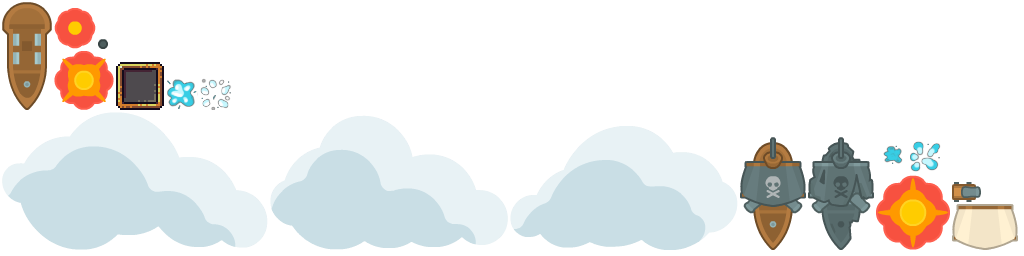
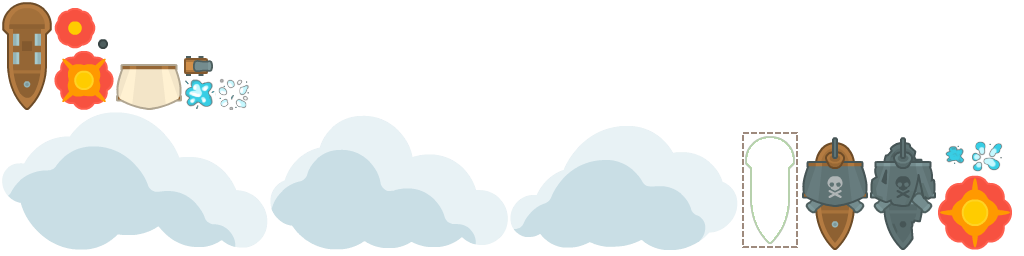
#51 Rectangle sensor and sprite for dock

Changed region(s): [[0.7188, 0.5, 1.0, 1.0], [0.0938, 0.2188, 0.25, 0.4375]]

diff --git a/core/src/com/hfentonfearn/ecs/EntityFactory.java b/core/src/com/hfentonfearn/ecs/EntityFactory.java
@@ -9,6 +9,7 @@ import com.badlogic.gdx.graphics.g2d.Sprite;
 import com.badlogic.gdx.graphics.g2d.TextureRegion;
 import com.badlogic.gdx.math.MathUtils;
 import com.badlogic.gdx.math.Polygon;
+import com.badlogic.gdx.math.Rectangle;
 import com.badlogic.gdx.math.Vector2;
 import com.badlogic.gdx.physics.box2d.*;
 import com.badlogic.gdx.physics.box2d.BodyDef.BodyType;
@@ -93,9 +94,17 @@ public class EntityFactory {
     public static void createDock(Polygon poly) {
         poly.setPosition(poly.getX()*MPP,poly.getY()*MPP);
         poly.setScale(MPP,MPP);
-        Entity entity = builder.createEntity(EntityCategory.DOCKS,new Vector2(0,0))
+        builder.createEntity(EntityCategory.DOCKS,new Vector2(0,0))
                 .buildPhysics(StaticBody).addFixture(MATERIAL_WOOD).polyChain(poly.getTransformedVertices()).create().getBody()
                 .addToEngine();
+    }
+
+    public static void createDockZone(Rectangle rect, float angle) {
+        Entity entity = builder.createEntity(EntityCategory.DOCKS, new Vector2(rect.x, rect.y))
+                .sprite(AssetLoader.effects.dockZone)
+                .buildPhysics(StaticBody).addFixture().isSensor().rectangle(rect, angle).create().getBody()
+                .addToEngine();
+        //Components.PHYSICS.get(entity).getBody().setTransform(rect.x,rect.y, (float) Math.toRadians(angle));
     }
 
     public static Entity createCannonBall(Vector2 position, Vector2 linearVel) {
@@ -133,7 +142,7 @@ public class EntityFactory {
 
     public static Entity createDyingShip(Vector2 position, int currency) {
         Entity entity = builder.createEntity(EntityCategory.DYINGSHIP,position)
-                .buildPhysics(DynamicBody).addFixture(-1).circle(0.5f).isSensor().create().getBody()
+                .buildPhysics(DynamicBody).addFixture().circle(0.5f).isSensor().create().getBody()
                 .sprite(AssetLoader.enemyShip.deadShip)
                 .killable().killAfterDuration(10).explode(20).fade().create()
                 .currency(currency)
@@ -272,6 +281,10 @@ public class EntityFactory {
             return fixtureBuilder.reset(body, material);
         }
 
+        public FixtureBuilder addFixture () {
+            return fixtureBuilder.reset(body);
+        }
+
         public EntityBuilder getBody () {
             return builder;
         }
@@ -284,6 +297,12 @@ public class EntityFactory {
                 this.body = body;
                 def = new FixtureDef();
                 setMaterial(material);
+                return this;
+            }
+
+            public FixtureBuilder reset (Body body) {
+                this.body = body;
+                def = new FixtureDef();
                 return this;
             }
 
@@ -323,6 +342,14 @@ public class EntityFactory {
                 CircleShape circle = new CircleShape();
                 circle.setRadius(radius);
                 def.shape = circle;
+                return this;
+            }
+
+            public FixtureBuilder rectangle (Rectangle rect, float angle) {
+                PolygonShape poly = new PolygonShape();
+                Vector2 center = new Vector2(rect.x * MPP,rect.y * MPP);
+                poly.setAsBox((rect.width/2) * MPP,(rect.height/2) * MPP, center, angle);
+                def.shape = poly;
                 return this;
             }
 

diff --git a/core/src/com/hfentonfearn/utils/AssetLoader.java b/core/src/com/hfentonfearn/utils/AssetLoader.java
@@ -25,8 +25,7 @@ public class AssetLoader implements Disposable {
 
     public static final String TEXTURE_ATLAS_OBJECTS = "atlas/cannon-shot.atlas";
     public static final String TEXTURE_ATLAS_PARTICLES = "atlas/particles.atlas";
-    public static final String SKIN = "skin/skin.json";
-    public static final String SKIN2 = "skin/skin2.json";
+    public static final String SKIN = "skin/skin2.json";
     public static final String MAP = "tiledMap/world1.tmx";
 
     public static AssetHotkey hotkey;
@@ -47,13 +46,13 @@ public class AssetLoader implements Disposable {
         getManager(); // Insure the manager exists
         manager.load(TEXTURE_ATLAS_OBJECTS, TextureAtlas.class);
         manager.load(TEXTURE_ATLAS_PARTICLES, TextureAtlas.class);
-        manager.load(SKIN2, Skin.class);
+        manager.load(SKIN, Skin.class);
     }
 
     public static void create () {
         TextureAtlas atlas = manager.get(TEXTURE_ATLAS_OBJECTS);
 
-        skin = manager.get(SKIN2);
+        skin = manager.get(SKIN);
         hotkey = new AssetHotkey(atlas);
         fonts = new AssetFonts(skin);
         map = new AssetMap();
@@ -191,10 +190,12 @@ public class AssetLoader implements Disposable {
     public static class AssetEffects {
         public final Animation<TextureRegion> cannonSplash;
         public final Animation<TextureRegion> cannonExplosion;
+        public final AtlasRegion dockZone;
 
         public AssetEffects(TextureAtlas atlas) {
             cannonSplash = new Animation<TextureRegion>(0.06f, atlas.findRegions("waterSplash"));
             cannonExplosion = new Animation<TextureRegion>(0.08f, atlas.findRegions("explosion"));
+            dockZone = atlas.findRegion("dockZone");
         }
     }
 

diff --git a/core/src/com/hfentonfearn/utils/WorldBuilder.java b/core/src/com/hfentonfearn/utils/WorldBuilder.java
@@ -3,6 +3,8 @@ package com.hfentonfearn.utils;
 import com.badlogic.gdx.maps.MapLayer;
 import com.badlogic.gdx.maps.MapObject;
 import com.badlogic.gdx.maps.objects.PolygonMapObject;
+import com.badlogic.gdx.maps.objects.RectangleMapObject;
+import com.badlogic.gdx.math.Rectangle;
 import com.badlogic.gdx.math.Vector2;
 import com.hfentonfearn.ecs.EntityFactory;
 
@@ -18,7 +20,7 @@ public class WorldBuilder {
 
     public void createWorld() {
         //EntityFactory.createPlayer(new Vector2(500,5800));
-        EntityFactory.createPlayer(new Vector2(500,500));
+        EntityFactory.createPlayer(new Vector2(500,3000));
 
         MapLayer layer = AssetLoader.map.tiledMap.getLayers().get("collision");
         for (MapObject object : layer.getObjects()) {
@@ -40,7 +42,14 @@ public class WorldBuilder {
             }
         }
         for (MapObject object : AssetLoader.map.zones) {
-
+            switch (object.getProperties().get("type", String.class)) {
+                case "dock":
+                    Rectangle rect =  ((RectangleMapObject) object).getRectangle();
+                    float angle = object.getProperties().get("rotation", Float.class);
+//                    Vector2 centerpos = new Vector2(rect.width/2, rect.height/2).rotate(angle).add(new Vector2(rect.x, rect.y));
+                    EntityFactory.createDockZone(rect, angle);
+                    break;
+            }
         }
     }
 }

diff --git a/core/src/com/hfentonfearn/entitysystems/DebugRendererSystem.java b/core/src/com/hfentonfearn/entitysystems/DebugRendererSystem.java
@@ -113,6 +113,7 @@ public class DebugRendererSystem extends EntitySystem {
         output.add("F2 = Decrease player speed stat");
         output.add("F4 = Spawns an Dead Enemy Ship at the mouse position");
         output.add("F5 = Spawns an Enemy Ship at the mouse position");
+        output.add("Mouse position: (" + Gdx.input.getX() + ", " + Gdx.input.getY() + ")" );
         for (String str : strings)
             output.add(str);
         strings = new Array<>();

diff --git a/core/src/com/hfentonfearn/ui/InventoryDialog.java b/core/src/com/hfentonfearn/ui/InventoryDialog.java
@@ -1,0 +1,11 @@
+package com.hfentonfearn.ui;
+
+import com.badlogic.gdx.scenes.scene2d.ui.Dialog;
+import com.badlogic.gdx.scenes.scene2d.ui.Skin;
+
+public class InventoryDialog extends Dialog {
+
+    public InventoryDialog(Skin skin) {
+        super("", skin, "inventory");
+    }
+}
